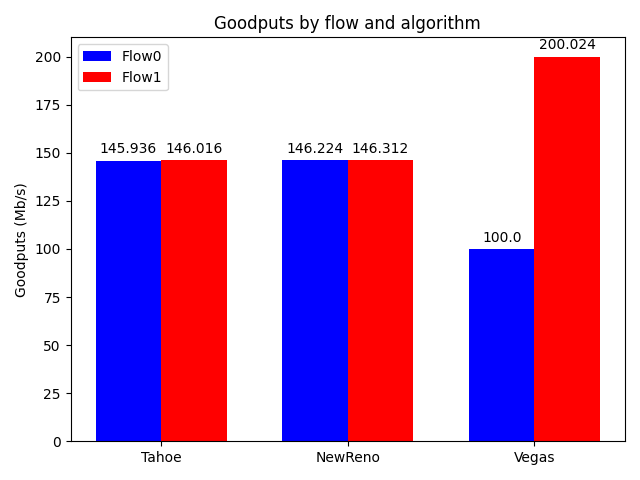
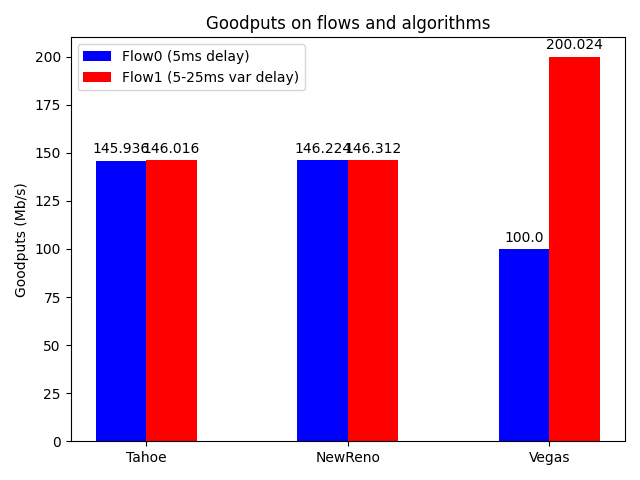
Use utils for bar plot

diff --git a/loss_rate.py b/loss_rate.py
@@ -2,92 +2,44 @@
 import matplotlib.pyplot as plt
 import sys
 import numpy as np
-
-def link_dropped_count_and_sent_count(file_name, source_node,  dest_node, flow):
-  dropped_count = 0
-  dequeued_count = 0
-  of = open("traces/"+file_name,"r")
-  lines = [i.strip().split() for i in of.readlines()]
-  of.close()
-  for line in lines:
-    event = line[0]
-    source = line[2]
-    dest = line[3]
-    size = line[5]
-    flag = line[7]
-    if  source == str(source_node) and dest == str(dest_node) and int(size) >= 1000 and int(flag) == flow:
-      if event == "d":
-        dropped_count += 1
-      elif event == "-":
-        dequeued_count += 1
-  return dropped_count, dequeued_count + dropped_count
+import utils
 
 # Packet Lost Ratio (P.L.R) = (P.L*100)/(Number of Sent Packet From Source in Unit of Time)
 def get_rate(dropped_pck_count, sent_pck_count):
   return (float(dropped_pck_count * 100)/ sent_pck_count)
 
 
-def get_loss_rates(iterations, algorithm):
+def get_loss(iterations, algorithm):
   dropped_count_0 = 0
-  sent_count_0 = 0
+  enqueued_count_0 = 0
   dropped_count_1 = 0
-  sent_count_1 = 0
+  enqueued_count_1 = 0
 
   for i in range(1, iterations + 1):
-    dropped_count_0, sent_count_0 += link_dropped_count("tcp"+str(i)+"-"+algorithm+".tr", 0, 2, 1)
-    dropped_count_0, sent_count_0 += link_dropped_count("tcp"+str(i)+"-"+algorithm+".tr", 2, 3, 1)
-    dropped_count_0, sent_count_0 += link_dropped_count("tcp"+str(i)+"-"+algorithm+".tr", 3, 4, 1)
+    dropped_count_0 +=  utils.link_count("d", "tcp"+str(i)+"-"+algorithm+".tr", 0, 2, 1)
+    dropped_count_0 +=  utils.link_count("d", "tcp"+str(i)+"-"+algorithm+".tr", 2, 3, 1)
+    dropped_count_0 +=  utils.link_count("d", "tcp"+str(i)+"-"+algorithm+".tr", 3, 4, 1)
+    enqueued_count_0 +=  utils.link_count("+", "tcp"+str(i)+"-"+algorithm+".tr", 0, 2, 1)
+    enqueued_count_0 +=  utils.link_count("+", "tcp"+str(i)+"-"+algorithm+".tr", 2, 3, 1)
+    enqueued_count_0 +=  utils.link_count("+", "tcp"+str(i)+"-"+algorithm+".tr", 3, 4, 1)
 
-    dropped_count_1, sent_count_1 += link_dropped_count("tcp"+str(i)+"-"+algorithm+".tr", 1, 2, 2)
-    dropped_count_1, sent_count_1 += link_dropped_count("tcp"+str(i)+"-"+algorithm+".tr", 2, 3, 2)
-    dropped_count_1, sent_count_1 += link_dropped_count("tcp"+str(i)+"-"+algorithm+".tr", 3, 5, 2)
-  dropped_count_0 /= iterations
-  sent_count_0 /= iterations
-  dropped_count_1 /= iterations
-  sent_count_1 /= iterations
-  
-  return get_rate(rec_count_0, sent_count_0), get_rate(dropped_count_1, sent_count_1)
+    '''
+    In ns-2, every arriving packet is first enqueued, even if it is immediately dequeued 
+    so every number of sent packet from source in unit of time in enqueued and dropped packets count
+    '''
 
+    dropped_count_1 += utils.link_count("d", "tcp"+str(i)+"-"+algorithm+".tr", 1, 2, 2)
+    dropped_count_1 += utils.link_count("d", "tcp"+str(i)+"-"+algorithm+".tr", 2, 3, 2)
+    dropped_count_1 += utils.link_count("d", "tcp"+str(i)+"-"+algorithm+".tr", 3, 5, 2)
+    enqueued_count_1 += utils.link_count("+", "tcp"+str(i)+"-"+algorithm+".tr", 1, 2, 2)
+    enqueued_count_1 += utils.link_count("+", "tcp"+str(i)+"-"+algorithm+".tr", 2, 3, 2)
+    enqueued_count_1 += utils.link_count("+", "tcp"+str(i)+"-"+algorithm+".tr", 3, 5, 2)
+   
+  dropped_count_0 = dropped_count_0 / iterations
+  enqueued_count_0 = enqueued_count_0 / iterations
+  dropped_count_1 =  dropped_count_1 / iterations
+  enqueued_count_1 = enqueued_count_1 / iterations
 
-
-
-
-
-
-
-
-
-
-
-
-
-# def plot_goodputs(flow0, flow1, labels):
-#   x = np.arange(len(labels))  # the label locations
-#   width = 0.35  # the width of the bars
-
-#   fig, ax = plt.subplots()
-#   rects1 = ax.bar(x - width/2, flow0, width, color="b", label='Flow0')
-#   rects2 = ax.bar(x + width/2, flow1, width, color="r", label='Flow1')
-
-#   def autolabel(rects):
-#         """Attach a text label above each bar in *rects*, displaying its height."""
-#         for rect in rects:
-#             height = rect.get_height()
-#             ax.annotate('{}'.format(height),
-#                         xy=(rect.get_x() + rect.get_width() / 2, height),
-#                         xytext=(0, 3),  # 3 points vertical offset
-#                         textcoords="offset points",
-#                         ha='center', va='bottom')
+  return get_rate(dropped_count_0, dropped_count_0 + enqueued_count_0), get_rate(dropped_count_1, dropped_count_1 + enqueued_count_1)
 
 
-#   ax.set_ylabel('Goodputs (Mb/s)')
-#   ax.set_title('Goodputs by flow and algorithm')
-#   ax.set_xticks(x)
-#   ax.set_xticklabels(labels)
-#   ax.legend()
-#   autolabel(rects1)
-#   autolabel(rects2)
-
-#   fig.tight_layout()
-#   plt.savefig("img/goodput/bar.png")
-#   plt.close()

diff --git a/goodput.py b/goodput.py
@@ -2,26 +2,11 @@
 import matplotlib.pyplot as plt
 import sys
 import numpy as np
-
-def link_received_count(file_name, source_node,  dest_node, flow):
-  count = 0
-  of = open("traces/"+file_name,"r")
-  lines = [i.strip().split() for i in of.readlines()]
-  of.close()
-  for line in lines:
-    event = line[0]
-    source = line[2]
-    dest = line[3]
-    size = line[5]
-    flag = line[7]
-    if event == "r" and source == str(source_node) and dest == str(dest_node) and int(size) >= 1000 and int(flag) == flow:
-      # print("event:", event, "source:", source, "dest:", dest, "size:", size, "flag:", flag)
-      count += 1
-  return count
+import utils
 
 #T = 1000ms = 1s
 #bits = count * 1000 byte = count * 1000 * 8 Mbit
-def get_goodput(rec_count, packet_size=1000, time_lenght=1):
+def get_received_packets_bandwidth(rec_count, packet_size=1000, time_lenght=1):
   #No need to Rip off the header
   return (float(rec_count * packet_size)/time_lenght) * (8 / 1000000)  
 
@@ -29,44 +14,13 @@ def get_goodputs(iterations, algorithm, time_lenght = 1):
   rec_count_0 = 0
   rec_count_1 = 0
   for i in range(1, iterations + 1):
-    rec_count_0 += link_received_count("tcp"+str(i)+"-"+algorithm+".tr", 0, 2, 1)
-    rec_count_0 += link_received_count("tcp"+str(i)+"-"+algorithm+".tr", 2, 3, 1)
-    rec_count_0 += link_received_count("tcp"+str(i)+"-"+algorithm+".tr", 3, 4, 1)
+    rec_count_0 += utils.link_count("r", "tcp"+str(i)+"-"+algorithm+".tr", 0, 2, 1)
+    rec_count_0 += utils.link_count("r", "tcp"+str(i)+"-"+algorithm+".tr", 2, 3, 1)
+    rec_count_0 += utils.link_count("r", "tcp"+str(i)+"-"+algorithm+".tr", 3, 4, 1)
 
-    rec_count_1 += link_received_count("tcp"+str(i)+"-"+algorithm+".tr", 1, 2, 2)
-    rec_count_1 += link_received_count("tcp"+str(i)+"-"+algorithm+".tr", 2, 3, 2)
-    rec_count_1 += link_received_count("tcp"+str(i)+"-"+algorithm+".tr", 3, 5, 2)
+    rec_count_1 += utils.link_count("r", "tcp"+str(i)+"-"+algorithm+".tr", 1, 2, 2)
+    rec_count_1 += utils.link_count("r", "tcp"+str(i)+"-"+algorithm+".tr", 2, 3, 2)
+    rec_count_1 += utils.link_count("r", "tcp"+str(i)+"-"+algorithm+".tr", 3, 5, 2)
   rec_count_0 /= iterations
   rec_count_1 /= iterations
-  return get_goodput(rec_count_0), get_goodput(rec_count_1)
-
-def plot_goodputs(flow0, flow1, labels):
-  x = np.arange(len(labels))  # the label locations
-  width = 0.35  # the width of the bars
-
-  fig, ax = plt.subplots()
-  rects1 = ax.bar(x - width/2, flow0, width, color="b", label='Flow0')
-  rects2 = ax.bar(x + width/2, flow1, width, color="r", label='Flow1')
-
-  def autolabel(rects):
-        """Attach a text label above each bar in *rects*, displaying its height."""
-        for rect in rects:
-            height = rect.get_height()
-            ax.annotate('{}'.format(height),
-                        xy=(rect.get_x() + rect.get_width() / 2, height),
-                        xytext=(0, 3),  # 3 points vertical offset
-                        textcoords="offset points",
-                        ha='center', va='bottom')
-
-
-  ax.set_ylabel('Goodputs (Mb/s)')
-  ax.set_title('Goodputs by flow and algorithm')
-  ax.set_xticks(x)
-  ax.set_xticklabels(labels)
-  ax.legend()
-  autolabel(rects1)
-  autolabel(rects2)
-
-  fig.tight_layout()
-  plt.savefig("img/goodput/bar.png")
-  plt.close()
+  return get_received_packets_bandwidth(rec_count_0), get_received_packets_bandwidth(rec_count_1)

diff --git a/utils.py b/utils.py
@@ -1,0 +1,51 @@
+#!/usr/bin/python3
+import matplotlib.pyplot as plt
+import sys
+import numpy as np
+
+
+def link_count(sign, file_name, source_node,  dest_node, flow):
+  count = 0
+  of = open("traces/"+file_name,"r")
+  lines = [i.strip().split() for i in of.readlines()]
+  of.close()
+  for line in lines:
+    event = line[0]
+    source = line[2]
+    dest = line[3]
+    size = line[5]
+    flag = line[7]
+    if  event == sign and source == str(source_node) and dest == str(dest_node) and int(size) >= 1000 and int(flag) == flow:
+      count += 1
+  return count
+
+def bar_plot(flow0, flow1, labels, address="img/bar.png", ylabel="", title="flow and algorithm"):
+  x = np.arange(len(labels))  # the label locations
+  width = 0.25  # the width of the bars
+
+  fig, ax = plt.subplots()
+  rects1 = ax.bar(x - width/2, flow0, width, color="b", label='Flow0 (5ms delay)')
+  rects2 = ax.bar(x + width/2, flow1, width, color="r", label='Flow1 (5-25ms var delay)')
+
+  def autolabel(rects):
+        """Attach a text label above each bar in *rects*, displaying its height."""
+        for rect in rects:
+            height = rect.get_height()
+            ax.annotate('{}'.format(height),
+                        xy=(rect.get_x() + rect.get_width() / 2, height),
+                        xytext=(0, 3),  # 3 points vertical offset
+                        textcoords="offset points",
+                        ha='center', va='bottom')
+
+
+  ax.set_ylabel(ylabel)
+  ax.set_title(title)
+  ax.set_xticks(x)
+  ax.set_xticklabels(labels)
+  ax.legend()
+  autolabel(rects1)
+  autolabel(rects2)
+
+  fig.tight_layout()
+  plt.savefig(address)
+  plt.close()

diff --git a/plot.py b/plot.py
@@ -2,19 +2,38 @@
 import sys
 import os
 from pprint import pprint
+import utils
 import average_cwnd
 import goodput
+import loss_rate
 
 iterations = int(sys.argv[1])
 algorithms = [sys.argv[2], sys.argv[3], sys.argv[4]]
 average_gp_flow0 = []
 average_gp_flow1 = []
+average_plr_flow0 = [] 
+average_plr_flow1 = []
 
 for algorithm in algorithms:
+	#CWND
 	time, average_cwnd_0, average_cwnd_1 = average_cwnd.get_cwnd(iterations, algorithm)
 	average_cwnd.plot_flows_cwnd(time, average_cwnd_0, average_cwnd_1, algorithm)
+	
+	#Goodput
 	gp_flow0, gp_flow1 = goodput.get_goodputs(iterations, algorithm, time_lenght = 1)
 	print(algorithm, "average goodputs:\n", gp_flow0, gp_flow1)
-	average_gp_flow0.append(float("{:.4f}".format(gp_flow0)))
-	average_gp_flow1.append(float("{:.4f}".format(gp_flow1)))
-goodput.plot_goodputs(average_gp_flow0, average_gp_flow1, algorithms)
+	average_gp_flow0.append(float("{:.3f}".format(gp_flow0)))
+	average_gp_flow1.append(float("{:.3f}".format(gp_flow1)))
+
+	#PacketLossRate
+	plr_flow0, plr_flow1 = loss_rate.get_loss(iterations, algorithm)
+	print(algorithm, "loss rates:\n", plr_flow0, plr_flow1)
+	average_plr_flow0.append(float("{:.3f}".format(plr_flow0)))
+	average_plr_flow1.append(float("{:.3f}".format(plr_flow1)))
+
+
+utils.bar_plot(average_gp_flow0, average_gp_flow1, algorithms,
+	title="Goodputs on flows and algorithms", address="img/goodput/bar.png", ylabel="Goodputs (Mb/s)")
+
+utils.bar_plot(average_plr_flow0, average_plr_flow1, algorithms,
+	title="Packet Loss on flows and algorithms", address="img/loss/bar.png", ylabel="Loss Rate (%)")
